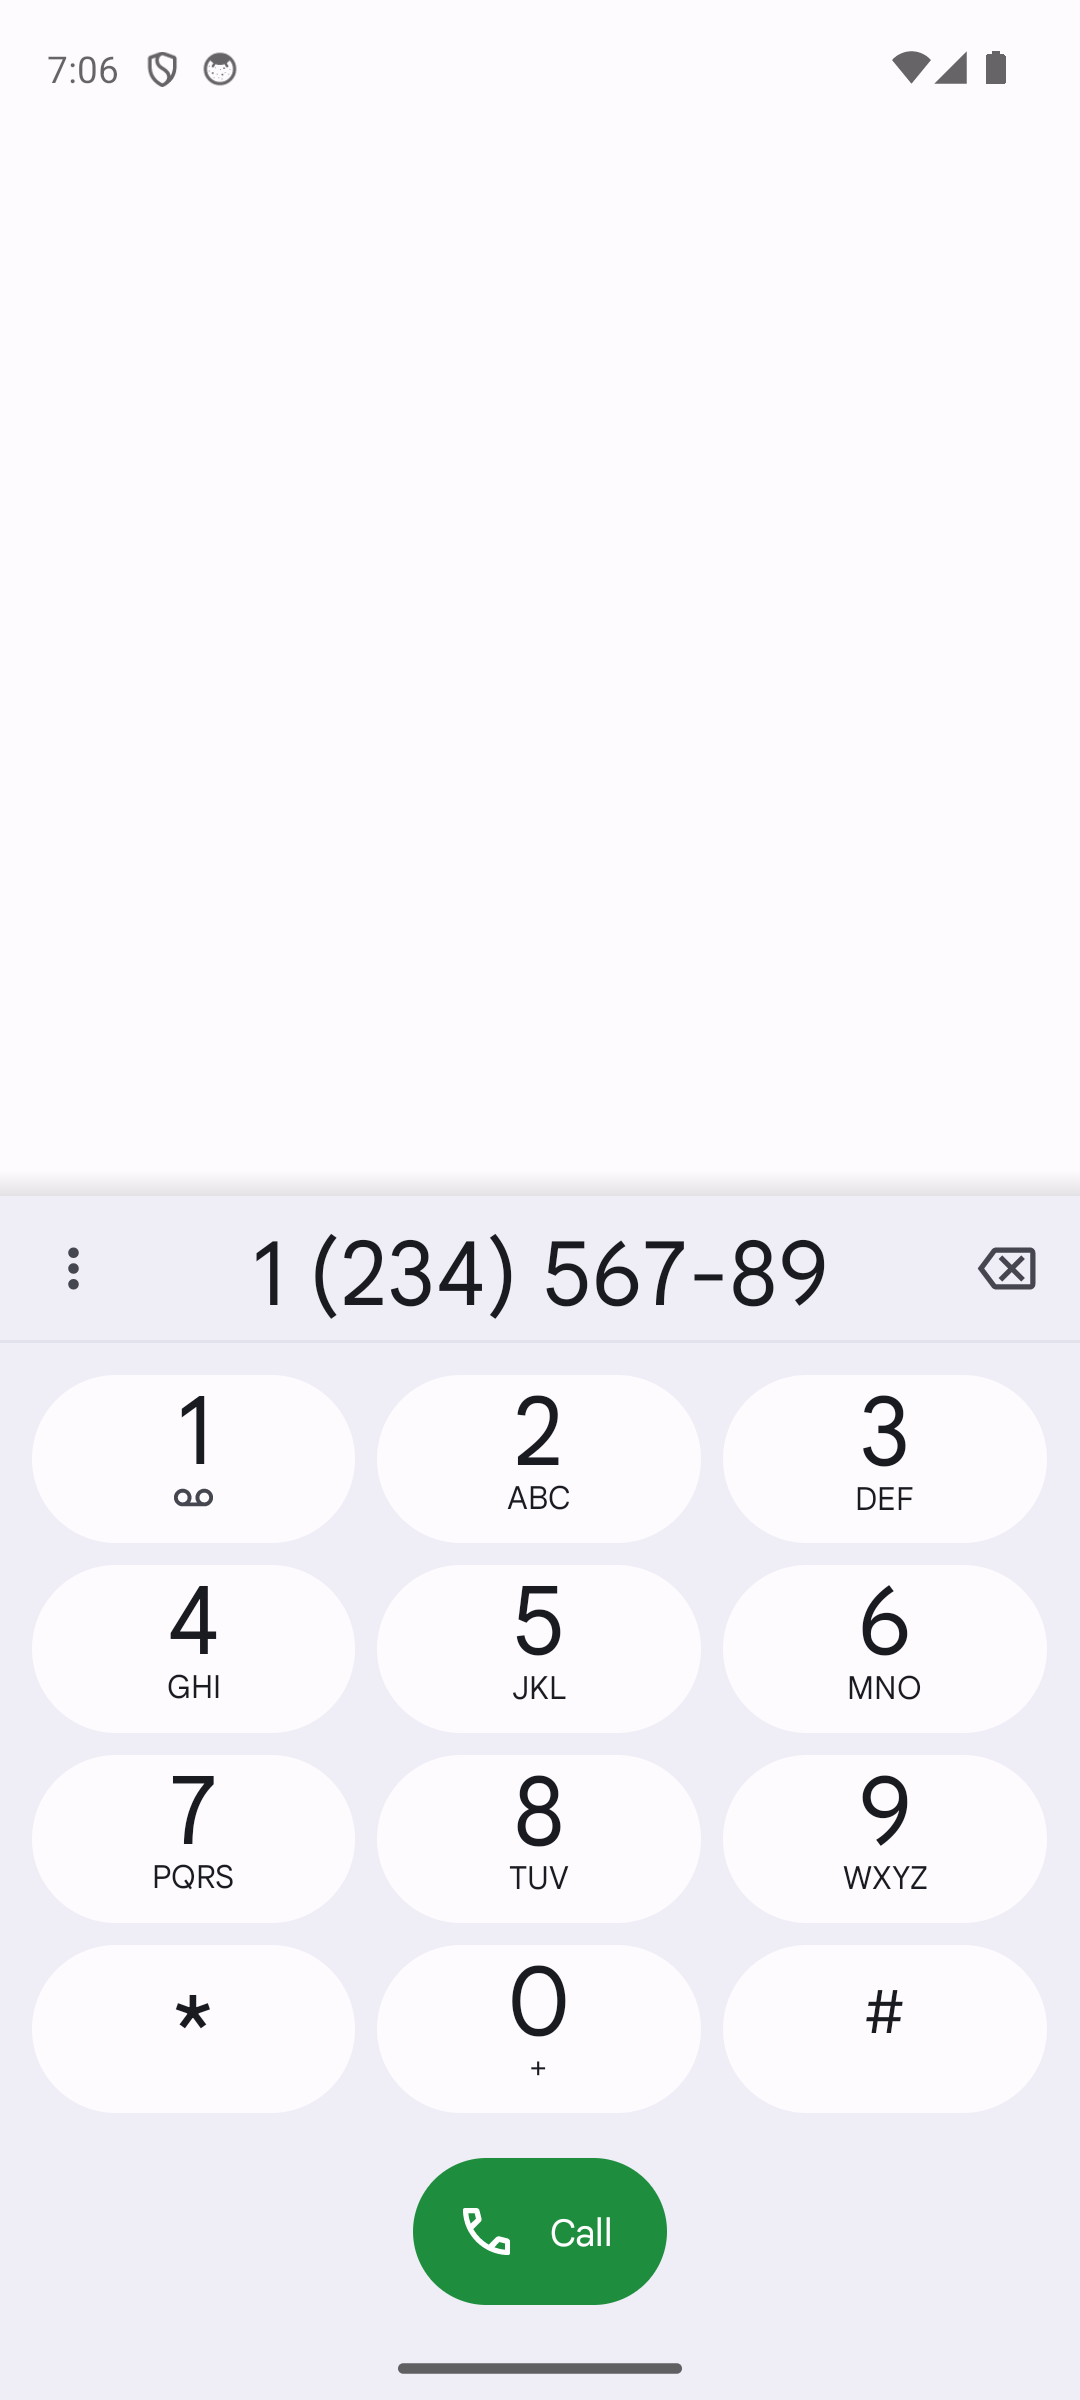
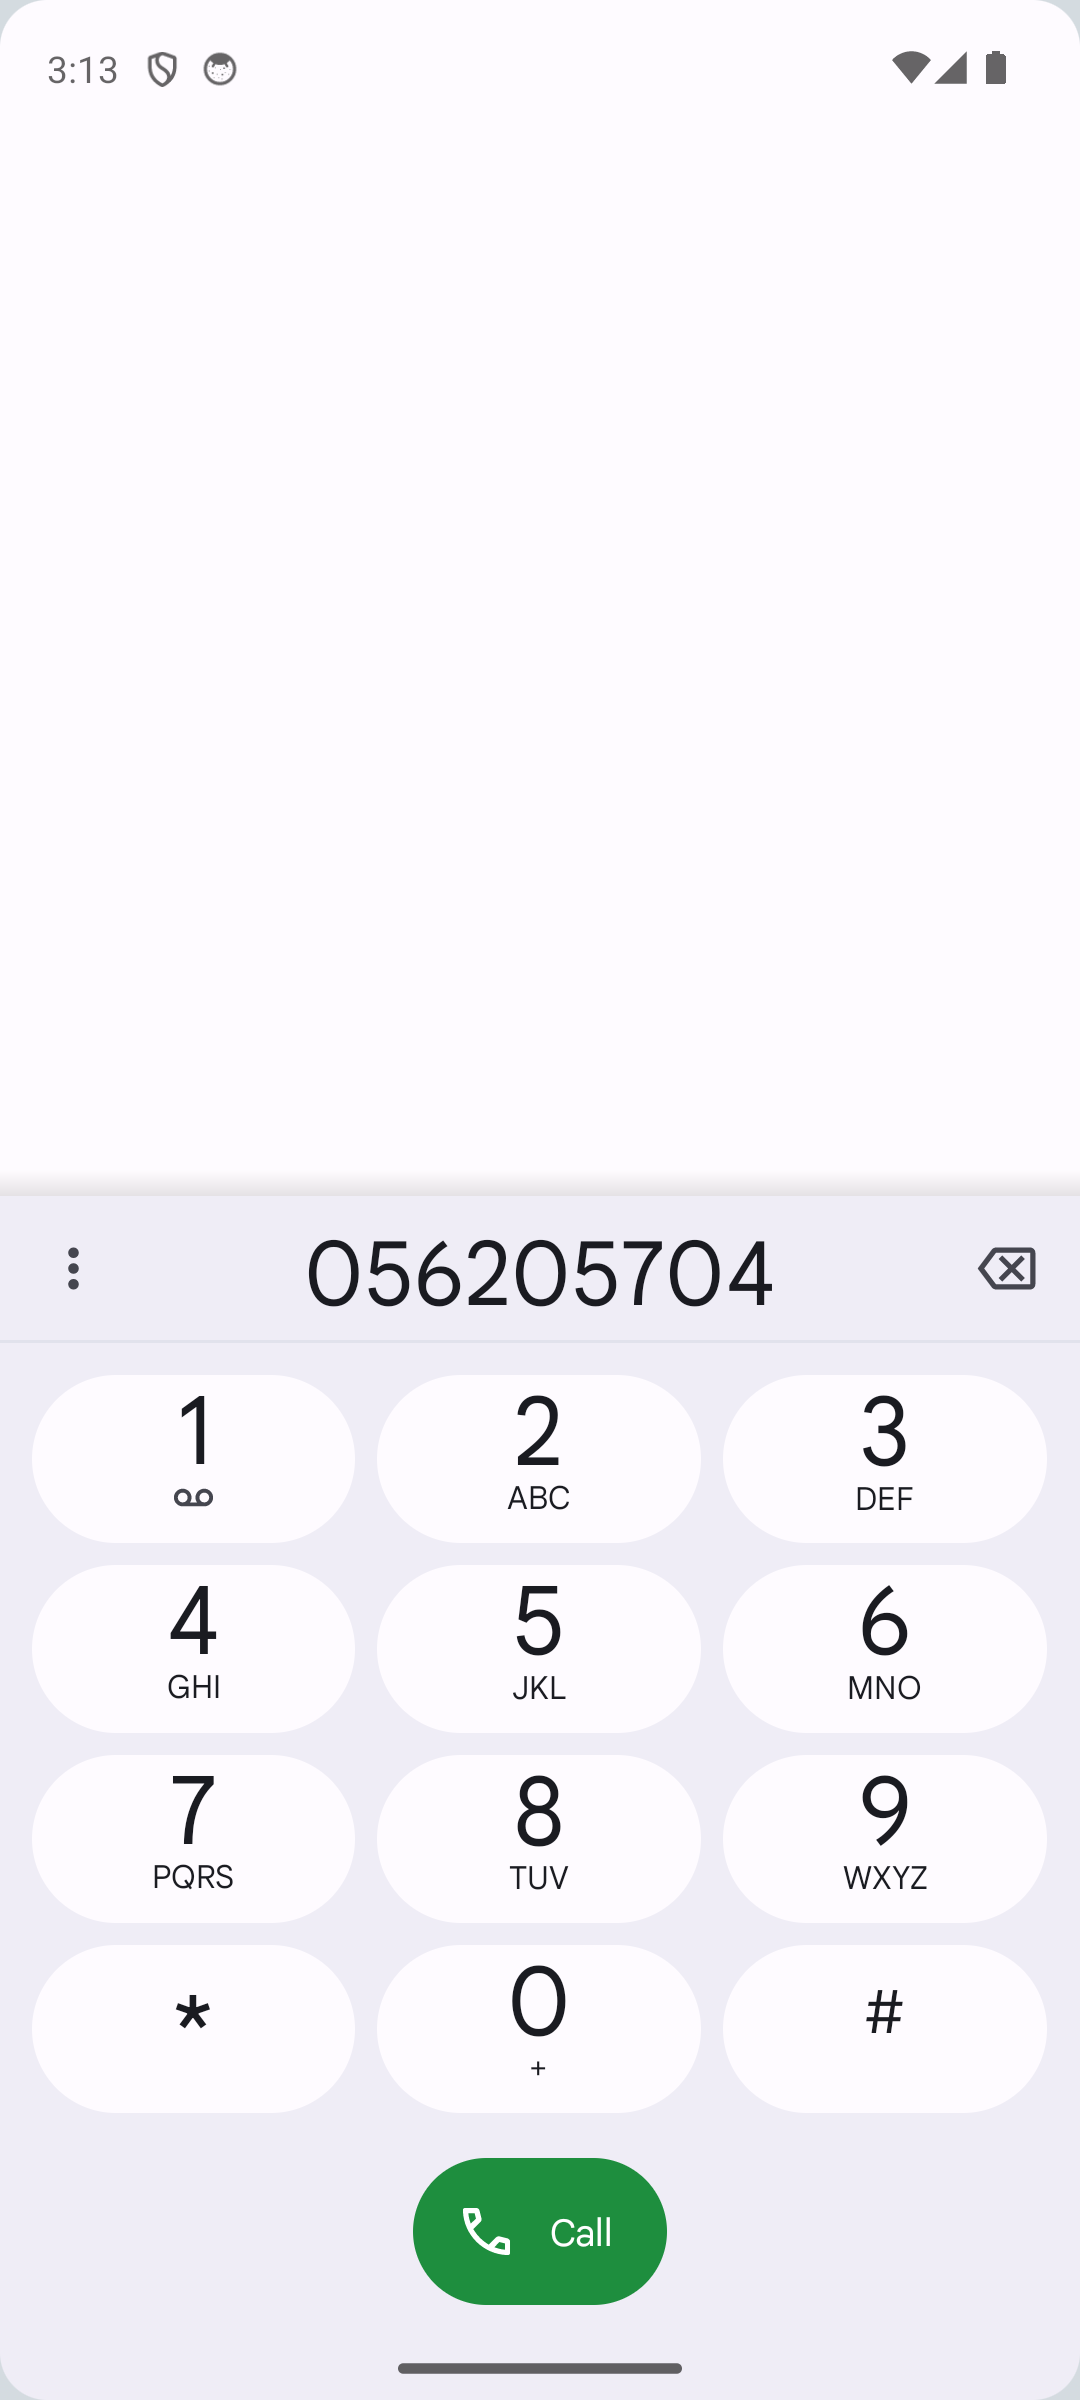
fixed bugs

diff --git a/app/src/main/java/com/example/implicitintents/MainActivity.java b/app/src/main/java/com/example/implicitintents/MainActivity.java
@@ -28,7 +28,10 @@ public class MainActivity extends AppCompatActivity {
         setContentView(R.layout.activity_main);
         ViewCompat.setOnApplyWindowInsetsListener(findViewById(R.id.main), (v, insets) -> {
             Insets systemBars = insets.getInsets(WindowInsetsCompat.Type.systemBars());
-            v.setPadding(systemBars.left, systemBars.top, systemBars.right, systemBars.bottom);
+            int marginSide = (int) (24 * getResources().getDisplayMetrics().density);
+            int marginTop = (int) (24 * getResources().getDisplayMetrics().density);
+            int marginBottom = (int) (24 * getResources().getDisplayMetrics().density);
+            v.setPadding(systemBars.left + marginSide, systemBars.top + marginTop, systemBars.right + marginSide, systemBars.bottom + marginBottom);
             return insets;
         });
 
@@ -39,7 +42,10 @@ public class MainActivity extends AppCompatActivity {
     }
 
     public void openWebsite(View view) {
-        String url = textField_website.getText().toString();
+        String url = textField_website.getText().toString().trim();
+        if (!url.isEmpty() && !url.startsWith("http://") && !url.startsWith("https://")) {
+            url = "https://" + url;
+        }
         Uri webpage = Uri.parse(url);
         Intent intent = new Intent(Intent.ACTION_VIEW, webpage);
         if (intent.resolveActivity(getPackageManager()) != null) {
@@ -80,7 +86,7 @@ public class MainActivity extends AppCompatActivity {
     }
 
     public void callNumber(View view) {
-        String phone = textField_phone.getText().toString();
+        String phone = textField_phone.getText().toString().trim();
         Uri uri = Uri.parse("tel:" + phone);
         Intent intent = new Intent(Intent.ACTION_DIAL, uri);
         if (intent.resolveActivity(getPackageManager()) != null) {
@@ -92,5 +98,12 @@ public class MainActivity extends AppCompatActivity {
                 Toast.makeText(this, getString(R.string.error_invalidphone), Toast.LENGTH_SHORT).show();
             }
         }
+    }
+
+    public void fillPlaceholders(View view) {
+        textField_website.setText(R.string.edittext_uri);
+        textField_location.setText(R.string.edittext_loc);
+        textField_share.setText(R.string.edittext_share);
+        textField_phone.setText(R.string.edittext_phone);
     }
 }

diff --git a/README.md b/README.md
@@ -4,17 +4,18 @@ Preprosta Android aplikacija za spoznavanje uporabe implicitnih namenov (Implici
 
 ## Opis aplikacije
 
-Aplikacija ponuja štiri glavne funkcionalnosti preko navpične postavitve (`LinearLayout`):
+Aplikacija ponuja funkcionalnosti preko navpične postavitve (`LinearLayout`):
 - **Odpri spletno stran (Open Website)**: Vnos spletnega naslova (`https://...`) in odpiranje v spletnem brskalniku z uporabo akcije `Intent.ACTION_VIEW`.
-- **Prikaži lokacijo (Open Location)**: Vnos lokacije (npr. *Golden Gate Bridge*) in prikaz na zemljevidu z uporabo geografskega URI-ja `geo:0,0?q=...` ter akcije `Intent.ACTION_VIEW`.
+- **Prikaži lokacijo (Open Location)**: Vnos lokacije (npr. *Cankarjeva ulica 10, 5000 Nova Gorica*) in prikaz na zemljevidu z uporabo geografskega URI-ja `geo:0,0?q=...` ter akcije `Intent.ACTION_VIEW`.
 - **Deli besedilo (Share This Text)**: Vnos poljubnega besedila in sprožitev sistemskega izbirnika za deljenje z uporabo `ShareCompat.IntentBuilder` ter MIME tipa `text/plain`.
 - **Klic telefonske številke (Call This Number)**: Vnos telefonske številke in odpiranje telefonskega klicalnika z uporabo sheme `tel:...` ter akcije `Intent.ACTION_DIAL`.
+- **Vstavi testne podatke (Fill Example Data)**: Gumb na dnu, ki vsa vnosna polja samodejno napolni s testnimi podatki, povezanimi z ERŠ Nova Gorica.
 
 Pred zagonom namenov se z metodo `resolveActivity()` preveri, ali je na napravi na voljo ustrezna aplikacija za obdelavo namena. Vsa besedila in sporočila so shranjena v `strings.xml`.
 
 ## Ikona aplikacije
 
-Privzeta ikona aplikacije je bila zamenjana z ikono za deljenje (Clip Art *Share*) preko orodja Asset Studio v Android Studiu. Datoteke ikone se nahajajo na poti:
+Privzeta ikona aplikacije je bila zamenjana z ikono puščice za deljenje z modrim ozadjem šole ERŠ (#1E3A8A). Datoteke ikone se nahajajo na poti:
 - `app/src/main/res/mipmap-anydpi-v26/ic_launcher.xml`
 - `app/src/main/res/drawable/ic_launcher_foreground.xml`
 - `app/src/main/res/drawable/ic_launcher_background.xml`
